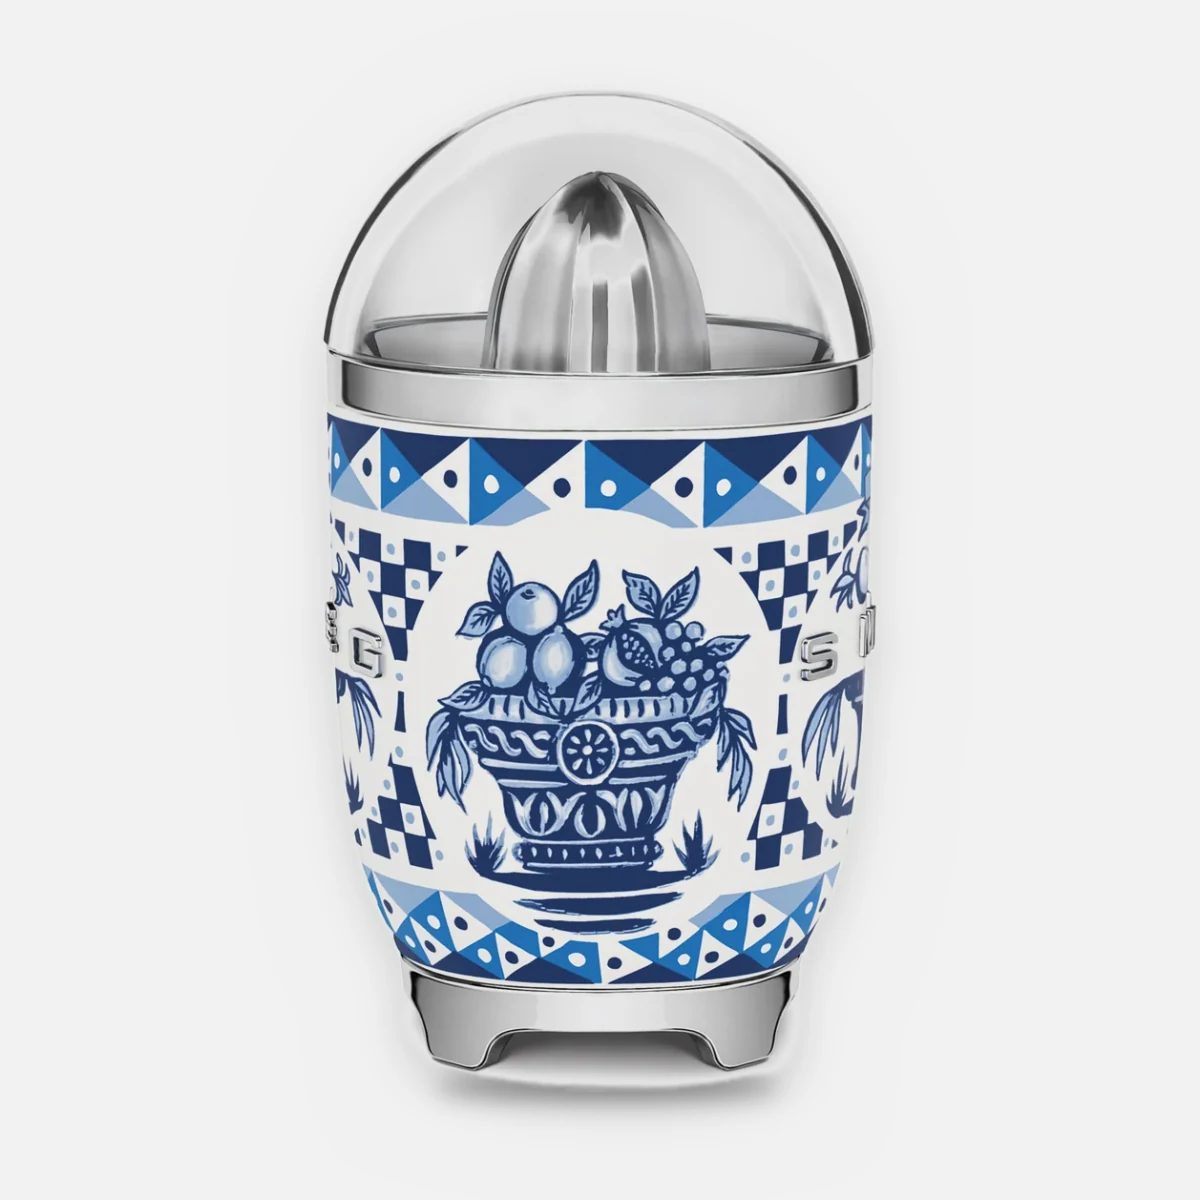
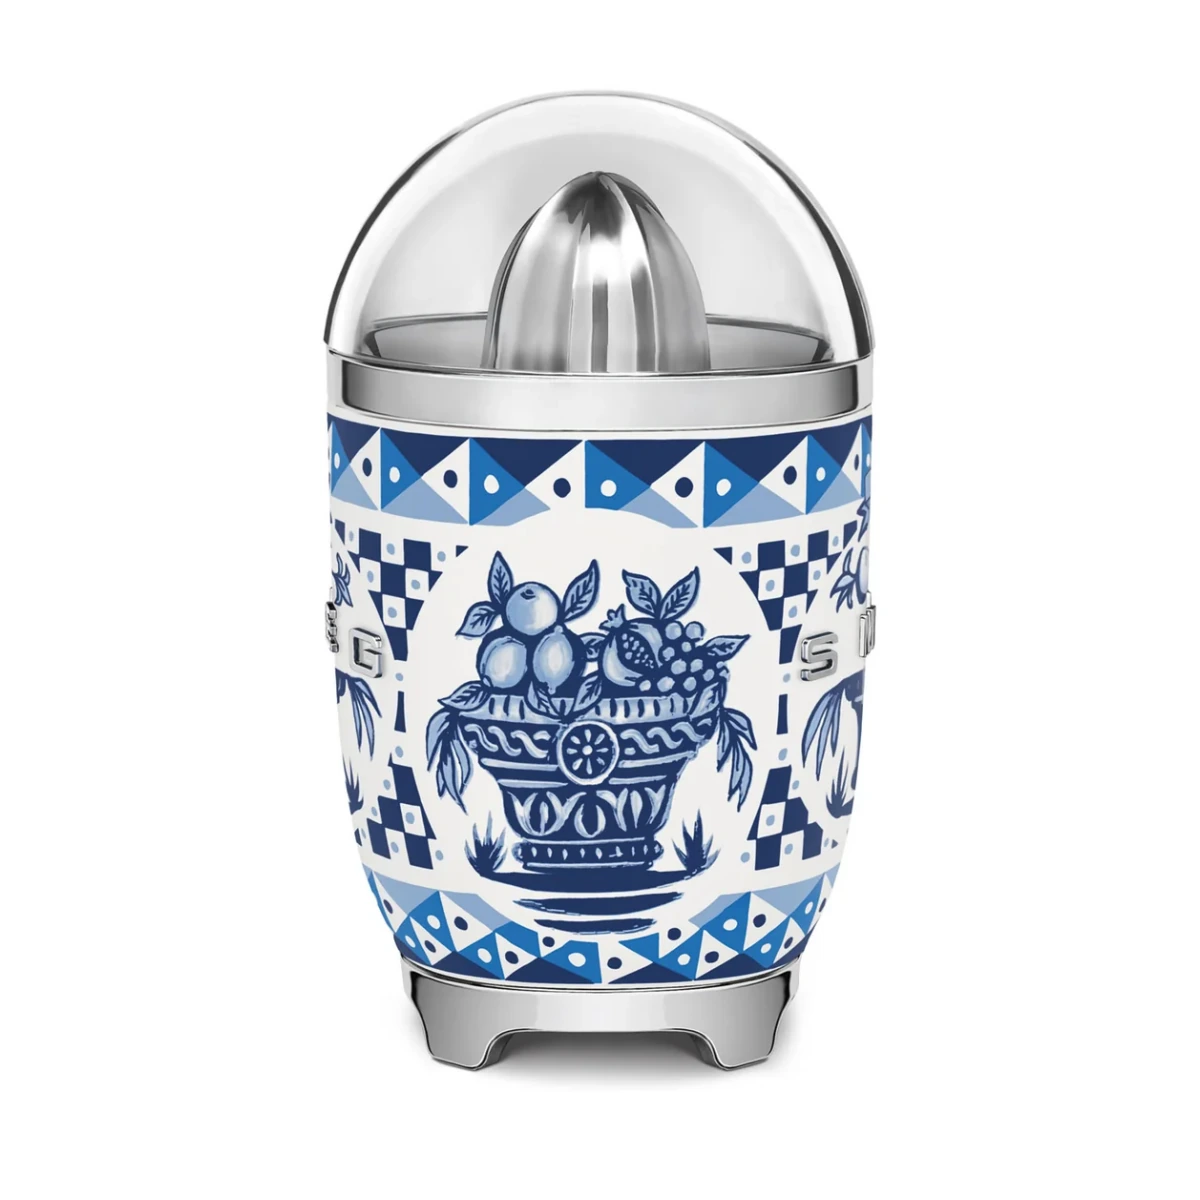
Photos produits : fond blanc par défaut, sans ombre, qualité 92
Claude-Session: https://claude.ai/code/session_016XPJXHoCzerKHrFFv8Th85

diff --git a/tools/photos-produits/traiter_photos.py b/tools/photos-produits/traiter_photos.py
@@ -1,11 +1,11 @@
 """Uniformise les photos produits SMEG pour WooCommerce.
 
 Pour chaque image : détecte si le fond est uni et clair (blanc, gris, beige).
-- Fond uni  -> détourage, recadrage, produit centré sur un carré gris avec ombre portée.
+- Fond uni  -> recadrage, produit centré sur un carré blanc (ombre en option).
 - Fond décoré / mise en situation -> image ignorée (listée dans rapport.csv).
 
 Usage :
-    python traiter_photos.py DOSSIER_SOURCE DOSSIER_SORTIE [--taille 1200] [--gris F2F2F2]
+    python traiter_photos.py DOSSIER_SOURCE DOSSIER_SORTIE [--taille 1200] [--fond FFFFFF] [--ombre]
 """
 import argparse
 import csv
@@ -61,11 +61,11 @@ def masque_produit(rgb, fond, tolerance=10):
 
 
 def composer(rgb, masque, dist, fond_src, taille, gris, marge, ombre):
-    """Produit centré sur le carré gris.
+    """Produit centré sur un carré de couleur `gris` (blanc par défaut).
 
-    Pas de détourage dur : les pixels proches de l'ancien fond sont ramenés vers
-    le gris (comme un fondu « produit »), les pixels francs du produit restent intacts.
-    Ça évite les liserés blancs et garde les parties vitrées et reflets naturels.
+    Pas de détourage dur : les pixels proches de l'ancien fond sont ramenés
+    progressivement vers la nouvelle couleur, les pixels francs du produit restent
+    intacts. Sur une photo déjà sur fond blanc, le produit n'est pas retouché.
     """
     ys, xs = np.where(masque > 0)
     pad = 6
@@ -73,7 +73,7 @@ def composer(rgb, masque, dist, fond_src, taille, gris, marge, ombre):
     x0, x1 = max(0, xs.min() - pad), min(rgb.shape[1], xs.max() + 1 + pad)
     rgb, masque, dist = rgb[y0:y1, x0:x1], masque[y0:y1, x0:x1], dist[y0:y1, x0:x1]
 
-    k = gris / np.maximum(fond_src, 1)            # ancien fond -> nouveau gris
+    k = gris / np.maximum(fond_src, 1)            # ancien fond -> nouveau fond (1 si déjà blanc)
     franc = np.clip((dist - 2) / 40.0, 0, 1)[..., None]
     avant = rgb * (k + (1 - k) * franc)
 
@@ -124,13 +124,13 @@ def main():
     p.add_argument("source", type=Path)
     p.add_argument("sortie", type=Path)
     p.add_argument("--taille", type=int, default=1200)
-    p.add_argument("--gris", default="F2F2F2")
+    p.add_argument("--fond", default="FFFFFF")
     p.add_argument("--marge", type=float, default=0.08)
-    p.add_argument("--sans-ombre", action="store_true")
-    p.add_argument("--qualite", type=int, default=88)
+    p.add_argument("--ombre", action="store_true")
+    p.add_argument("--qualite", type=int, default=92)
     args = p.parse_args()
 
-    gris = couleur_hex(args.gris)
+    gris = couleur_hex(args.fond)
     fichiers = sorted(f for f in args.source.rglob("*") if f.suffix.lower() in EXTENSIONS)
     args.sortie.mkdir(parents=True, exist_ok=True)
     rapport = []
@@ -146,7 +146,7 @@ def main():
             if masque.sum() < 0.01 * masque.size:
                 rapport.append((rel, "ignorée", "produit non détecté"))
                 continue
-            img = composer(rgb, masque, dist, fond, args.taille, gris, args.marge, not args.sans_ombre)
+            img = composer(rgb, masque, dist, fond, args.taille, gris, args.marge, args.ombre)
             out = args.sortie / rel.with_suffix(".webp")
             out.parent.mkdir(parents=True, exist_ok=True)
             img.save(out, "WEBP", quality=args.qualite, method=6)

diff --git a/tools/photos-produits/README.md b/tools/photos-produits/README.md
@@ -1,7 +1,8 @@
 # Photos produits – format WooCommerce
 
-Met toutes les photos produits au même format : carré 1:1 (1200×1200 px), fond gris `#F2F2F2`,
-produit centré avec une marge de 8 %, ombre douce, export `.webp`.
+Met toutes les photos produits au même format : carré 1:1 (1200×1200 px), fond blanc,
+produit centré avec la même marge de 8 % sur toutes les photos, export `.webp`.
+Sur une photo déjà sur fond blanc, le produit n'est pas retouché : il est seulement recadré et centré.
 
 - Les photos sur **fond uni clair** (blanc, gris, beige) sont traitées.
 - Les photos sur **fond décoré / mise en situation** sont ignorées (laissées telles quelles)
@@ -20,6 +21,6 @@ pip install numpy pillow opencv-python-headless
 python traiter_photos.py "photos_originales" "photos_traitees"
 ```
 
-Options : `--taille 1200`, `--gris F2F2F2`, `--marge 0.08`, `--sans-ombre`, `--qualite 88`.
+Options : `--taille 1200`, `--fond FFFFFF`, `--marge 0.08`, `--ombre` (désactivée par défaut), `--qualite 92`.
 
 Voir `exemples/avant-apres.png` (haut : original, bas : résultat).
